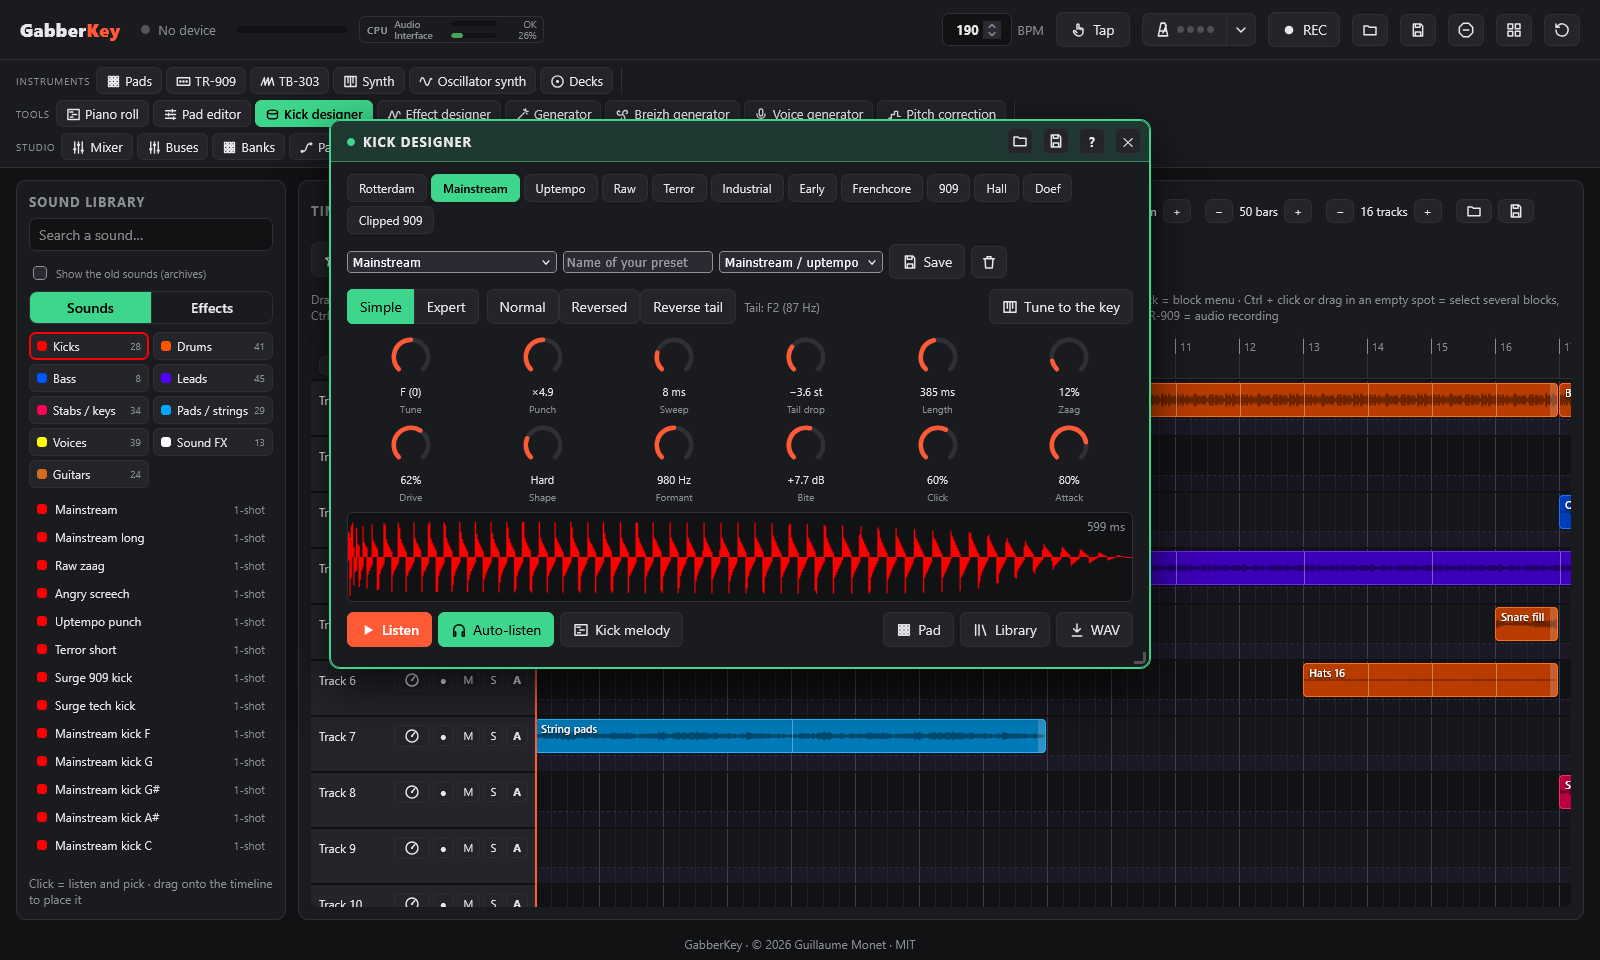
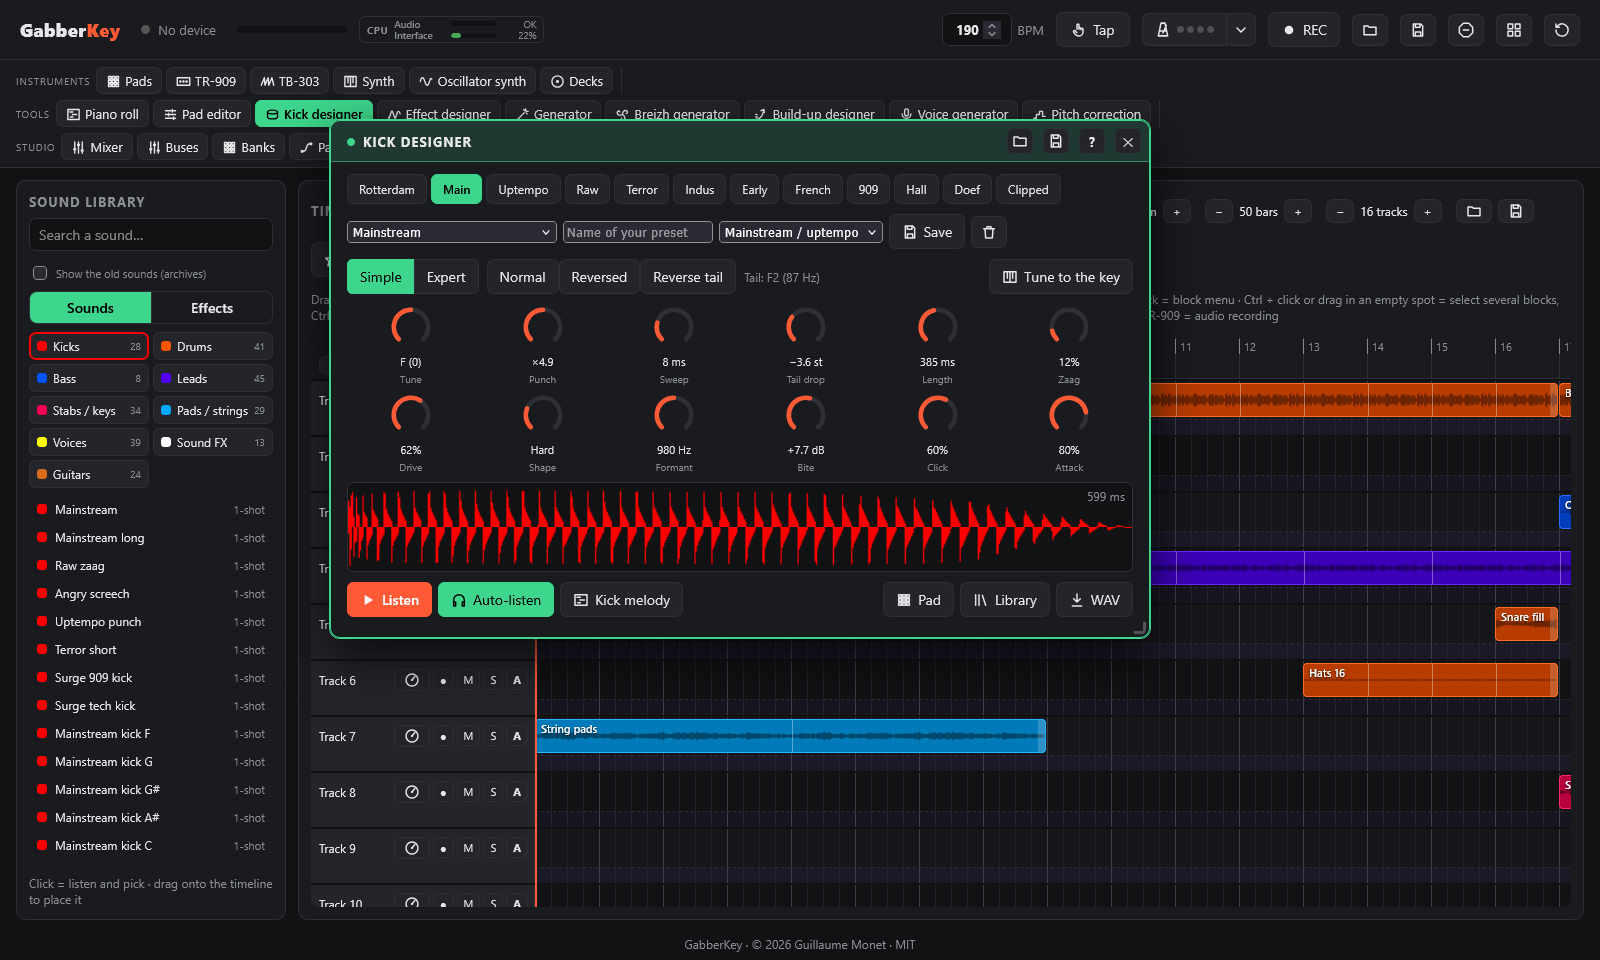
Brand name removed: synth preset Thunderdome pad -> Arena pad (Nappe d'arène), Oldschool bank kick Thunderdome -> Arena kick (Kick d'arène), renamed in saved pads too; preset ids unchanged. Kick designer preset buttons get short names (Main, Indus, French, Salle / Hall, Écrêté / Clipped) so the 12 f

diff --git a/index.html b/index.html
@@ -5,7 +5,7 @@
   <meta name="viewport" content="width=device-width, initial-scale=1">
   <meta name="author" content="Guillaume Monet">
   <title>GabberKey</title>
-  <link rel="stylesheet" href="css/style.css?v=119">
+  <link rel="stylesheet" href="css/style.css?v=120">
 </head>
 <body>
   <div id="start" class="overlay">
@@ -437,117 +437,117 @@
   <script type="importmap">
   {
     "imports": {
-      "./js/app/acid-ui.js": "./js/app/acid-ui.js?v=119",
-      "./js/app/actions.js": "./js/app/actions.js?v=119",
-      "./js/app/controller.js": "./js/app/controller.js?v=119",
-      "./js/app/core.js": "./js/app/core.js?v=119",
-      "./js/app/audio-input.js": "./js/app/audio-input.js?v=119",
-      "./js/app/automation-ui.js": "./js/app/automation-ui.js?v=119",
-      "./js/app/banks-ui.js": "./js/app/banks-ui.js?v=119",
-      "./js/app/bars.js": "./js/app/bars.js?v=119",
-      "./js/app/breizh-ui.js": "./js/app/breizh-ui.js?v=119",
-      "./js/app/buildup-ui.js": "./js/app/buildup-ui.js?v=119",
-      "./js/app/voice-ui.js": "./js/app/voice-ui.js?v=119",
-      "./js/app/tune-ui.js": "./js/app/tune-ui.js?v=119",
-      "./js/app/buses-ui.js": "./js/app/buses-ui.js?v=119",
-      "./js/app/clip-menu.js": "./js/app/clip-menu.js?v=119",
-      "./js/app/curve-ui.js": "./js/app/curve-ui.js?v=119",
-      "./js/app/decks-ui.js": "./js/app/decks-ui.js?v=119",
-      "./js/app/devices.js": "./js/app/devices.js?v=119",
-      "./js/app/demo.js": "./js/app/demo.js?v=119",
-      "./js/app/export.js": "./js/app/export.js?v=119",
-      "./js/app/files.js": "./js/app/files.js?v=119",
-      "./js/app/freeze.js": "./js/app/freeze.js?v=119",
-      "./js/app/gen.js": "./js/app/gen.js?v=119",
-      "./js/app/inserts-ui.js": "./js/app/inserts-ui.js?v=119",
-      "./js/app/kick-ui.js": "./js/app/kick-ui.js?v=119",
-      "./js/app/knobs.js": "./js/app/knobs.js?v=119",
-      "./js/app/launcher.js": "./js/app/launcher.js?v=119",
-      "./js/app/library-ui.js": "./js/app/library-ui.js?v=119",
-      "./js/app/metro-ui.js": "./js/app/metro-ui.js?v=119",
-      "./js/app/markers.js": "./js/app/markers.js?v=119",
-      "./js/app/master-ui.js": "./js/app/master-ui.js?v=119",
-      "./js/app/midi-files.js": "./js/app/midi-files.js?v=119",
-      "./js/app/midi-ui.js": "./js/app/midi-ui.js?v=119",
-      "./js/app/misc.js": "./js/app/misc.js?v=119",
-      "./js/app/mixer-ui.js": "./js/app/mixer-ui.js?v=119",
-      "./js/app/osc-ui.js": "./js/app/osc-ui.js?v=119",
-      "./js/app/pads.js": "./js/app/pads.js?v=119",
-      "./js/app/patch-ui.js": "./js/app/patch-ui.js?v=119",
-      "./js/app/perf-fx.js": "./js/app/perf-fx.js?v=119",
-      "./js/app/play.js": "./js/app/play.js?v=119",
-      "./js/app/piano.js": "./js/app/piano.js?v=119",
-      "./js/app/plugins.js": "./js/app/plugins.js?v=119",
-      "./js/app/presets-bar.js": "./js/app/presets-bar.js?v=119",
-      "./js/app/roll-ui.js": "./js/app/roll-ui.js?v=119",
-      "./js/app/save.js": "./js/app/save.js?v=119",
-      "./js/app/scenes.js": "./js/app/scenes.js?v=119",
-      "./js/app/send-to.js": "./js/app/send-to.js?v=119",
-      "./js/app/sounds.js": "./js/app/sounds.js?v=119",
-      "./js/app/sidechain-ui.js": "./js/app/sidechain-ui.js?v=119",
-      "./js/app/synth-ui.js": "./js/app/synth-ui.js?v=119",
-      "./js/app/tempo.js": "./js/app/tempo.js?v=119",
-      "./js/app/tl-listen.js": "./js/app/tl-listen.js?v=119",
-      "./js/app/tl-record.js": "./js/app/tl-record.js?v=119",
-      "./js/app/tl-select.js": "./js/app/tl-select.js?v=119",
-      "./js/app/tl.js": "./js/app/tl.js?v=119",
-      "./js/app/tr909-ui.js": "./js/app/tr909-ui.js?v=119",
-      "./js/app/trackfx-ui.js": "./js/app/trackfx-ui.js?v=119",
-      "./js/app/undo.js": "./js/app/undo.js?v=119",
-      "./js/app/warp.js": "./js/app/warp.js?v=119",
-      "./js/app/viz-ui.js": "./js/app/viz-ui.js?v=119",
-      "./js/acid.js": "./js/acid.js?v=119",
-      "./js/apc.js": "./js/apc.js?v=119",
-      "./js/audio.js": "./js/audio.js?v=119",
-      "./js/decks.js": "./js/decks.js?v=119",
-      "./js/dynamics.js": "./js/dynamics.js?v=119",
-      "./js/chords.js": "./js/chords.js?v=119",
-      "./js/help.js": "./js/help.js?v=119",
-      "./js/history.js": "./js/history.js?v=119",
-      "./js/i18n.js": "./js/i18n.js?v=119",
-      "./js/kickdesign.js": "./js/kickdesign.js?v=119",
-      "./js/kicksynth.js": "./js/kicksynth.js?v=119",
-      "./js/kit.js": "./js/kit.js?v=119",
-      "./js/kits.js": "./js/kits.js?v=119",
-      "./js/metronome.js": "./js/metronome.js?v=119",
-      "./js/cpumeter.js": "./js/cpumeter.js?v=119",
-      "./js/curves.js": "./js/curves.js?v=119",
-      "./js/library.js": "./js/library.js?v=119",
-      "./js/lufs.js": "./js/lufs.js?v=119",
-      "./js/breizh.js": "./js/breizh.js?v=119",
-      "./js/buildup.js": "./js/buildup.js?v=119",
-      "./js/voice.js": "./js/voice.js?v=119",
-      "./js/psola.js": "./js/psola.js?v=119",
-      "./js/autotune.js": "./js/autotune.js?v=119",
-      "./js/melody.js": "./js/melody.js?v=119",
-      "./js/midi.js": "./js/midi.js?v=119",
-      "./js/midiclock.js": "./js/midiclock.js?v=119",
-      "./js/smf.js": "./js/smf.js?v=119",
-      "./js/main.js": "./js/main.js?v=119",
-      "./js/mixer.js": "./js/mixer.js?v=119",
-      "./js/notes.js": "./js/notes.js?v=119",
-      "./js/osc.js": "./js/osc.js?v=119",
-      "./js/params.js": "./js/params.js?v=119",
-      "./js/patch.js": "./js/patch.js?v=119",
-      "./js/performer.js": "./js/performer.js?v=119",
-      "./js/pianoroll.js": "./js/pianoroll.js?v=119",
-      "./js/presets.js": "./js/presets.js?v=119",
-      "./js/project.js": "./js/project.js?v=119",
-      "./js/sidechain.js": "./js/sidechain.js?v=119",
-      "./js/recorder.js": "./js/recorder.js?v=119",
-      "./js/timeline.js": "./js/timeline.js?v=119",
-      "./js/storage.js": "./js/storage.js?v=119",
-      "./js/stretch.js": "./js/stretch.js?v=119",
-      "./js/suggest.js": "./js/suggest.js?v=119",
-      "./js/tr909.js": "./js/tr909.js?v=119",
-      "./js/trackfx.js": "./js/trackfx.js?v=119",
-      "./js/visualizer.js": "./js/visualizer.js?v=119",
-      "./js/viz3d.js": "./js/viz3d.js?v=119",
-      "./js/windows.js": "./js/windows.js?v=119",
-      "./js/zip.js": "./js/zip.js?v=119"
+      "./js/app/acid-ui.js": "./js/app/acid-ui.js?v=120",
+      "./js/app/actions.js": "./js/app/actions.js?v=120",
+      "./js/app/controller.js": "./js/app/controller.js?v=120",
+      "./js/app/core.js": "./js/app/core.js?v=120",
+      "./js/app/audio-input.js": "./js/app/audio-input.js?v=120",
+      "./js/app/automation-ui.js": "./js/app/automation-ui.js?v=120",
+      "./js/app/banks-ui.js": "./js/app/banks-ui.js?v=120",
+      "./js/app/bars.js": "./js/app/bars.js?v=120",
+      "./js/app/breizh-ui.js": "./js/app/breizh-ui.js?v=120",
+      "./js/app/buildup-ui.js": "./js/app/buildup-ui.js?v=120",
+      "./js/app/voice-ui.js": "./js/app/voice-ui.js?v=120",
+      "./js/app/tune-ui.js": "./js/app/tune-ui.js?v=120",
+      "./js/app/buses-ui.js": "./js/app/buses-ui.js?v=120",
+      "./js/app/clip-menu.js": "./js/app/clip-menu.js?v=120",
+      "./js/app/curve-ui.js": "./js/app/curve-ui.js?v=120",
+      "./js/app/decks-ui.js": "./js/app/decks-ui.js?v=120",
+      "./js/app/devices.js": "./js/app/devices.js?v=120",
+      "./js/app/demo.js": "./js/app/demo.js?v=120",
+      "./js/app/export.js": "./js/app/export.js?v=120",
+      "./js/app/files.js": "./js/app/files.js?v=120",
+      "./js/app/freeze.js": "./js/app/freeze.js?v=120",
+      "./js/app/gen.js": "./js/app/gen.js?v=120",
+      "./js/app/inserts-ui.js": "./js/app/inserts-ui.js?v=120",
+      "./js/app/kick-ui.js": "./js/app/kick-ui.js?v=120",
+      "./js/app/knobs.js": "./js/app/knobs.js?v=120",
+      "./js/app/launcher.js": "./js/app/launcher.js?v=120",
+      "./js/app/library-ui.js": "./js/app/library-ui.js?v=120",
+      "./js/app/metro-ui.js": "./js/app/metro-ui.js?v=120",
+      "./js/app/markers.js": "./js/app/markers.js?v=120",
+      "./js/app/master-ui.js": "./js/app/master-ui.js?v=120",
+      "./js/app/midi-files.js": "./js/app/midi-files.js?v=120",
+      "./js/app/midi-ui.js": "./js/app/midi-ui.js?v=120",
+      "./js/app/misc.js": "./js/app/misc.js?v=120",
+      "./js/app/mixer-ui.js": "./js/app/mixer-ui.js?v=120",
+      "./js/app/osc-ui.js": "./js/app/osc-ui.js?v=120",
+      "./js/app/pads.js": "./js/app/pads.js?v=120",
+      "./js/app/patch-ui.js": "./js/app/patch-ui.js?v=120",
+      "./js/app/perf-fx.js": "./js/app/perf-fx.js?v=120",
+      "./js/app/play.js": "./js/app/play.js?v=120",
+      "./js/app/piano.js": "./js/app/piano.js?v=120",
+      "./js/app/plugins.js": "./js/app/plugins.js?v=120",
+      "./js/app/presets-bar.js": "./js/app/presets-bar.js?v=120",
+      "./js/app/roll-ui.js": "./js/app/roll-ui.js?v=120",
+      "./js/app/save.js": "./js/app/save.js?v=120",
+      "./js/app/scenes.js": "./js/app/scenes.js?v=120",
+      "./js/app/send-to.js": "./js/app/send-to.js?v=120",
+      "./js/app/sounds.js": "./js/app/sounds.js?v=120",
+      "./js/app/sidechain-ui.js": "./js/app/sidechain-ui.js?v=120",
+      "./js/app/synth-ui.js": "./js/app/synth-ui.js?v=120",
+      "./js/app/tempo.js": "./js/app/tempo.js?v=120",
+      "./js/app/tl-listen.js": "./js/app/tl-listen.js?v=120",
+      "./js/app/tl-record.js": "./js/app/tl-record.js?v=120",
+      "./js/app/tl-select.js": "./js/app/tl-select.js?v=120",
+      "./js/app/tl.js": "./js/app/tl.js?v=120",
+      "./js/app/tr909-ui.js": "./js/app/tr909-ui.js?v=120",
+      "./js/app/trackfx-ui.js": "./js/app/trackfx-ui.js?v=120",
+      "./js/app/undo.js": "./js/app/undo.js?v=120",
+      "./js/app/warp.js": "./js/app/warp.js?v=120",
+      "./js/app/viz-ui.js": "./js/app/viz-ui.js?v=120",
+      "./js/acid.js": "./js/acid.js?v=120",
+      "./js/apc.js": "./js/apc.js?v=120",
+      "./js/audio.js": "./js/audio.js?v=120",
+      "./js/decks.js": "./js/decks.js?v=120",
+      "./js/dynamics.js": "./js/dynamics.js?v=120",
+      "./js/chords.js": "./js/chords.js?v=120",
+      "./js/help.js": "./js/help.js?v=120",
+      "./js/history.js": "./js/history.js?v=120",
+      "./js/i18n.js": "./js/i18n.js?v=120",
+      "./js/kickdesign.js": "./js/kickdesign.js?v=120",
+      "./js/kicksynth.js": "./js/kicksynth.js?v=120",
+      "./js/kit.js": "./js/kit.js?v=120",
+      "./js/kits.js": "./js/kits.js?v=120",
+      "./js/metronome.js": "./js/metronome.js?v=120",
+      "./js/cpumeter.js": "./js/cpumeter.js?v=120",
+      "./js/curves.js": "./js/curves.js?v=120",
+      "./js/library.js": "./js/library.js?v=120",
+      "./js/lufs.js": "./js/lufs.js?v=120",
+      "./js/breizh.js": "./js/breizh.js?v=120",
+      "./js/buildup.js": "./js/buildup.js?v=120",
+      "./js/voice.js": "./js/voice.js?v=120",
+      "./js/psola.js": "./js/psola.js?v=120",
+      "./js/autotune.js": "./js/autotune.js?v=120",
+      "./js/melody.js": "./js/melody.js?v=120",
+      "./js/midi.js": "./js/midi.js?v=120",
+      "./js/midiclock.js": "./js/midiclock.js?v=120",
+      "./js/smf.js": "./js/smf.js?v=120",
+      "./js/main.js": "./js/main.js?v=120",
+      "./js/mixer.js": "./js/mixer.js?v=120",
+      "./js/notes.js": "./js/notes.js?v=120",
+      "./js/osc.js": "./js/osc.js?v=120",
+      "./js/params.js": "./js/params.js?v=120",
+      "./js/patch.js": "./js/patch.js?v=120",
+      "./js/performer.js": "./js/performer.js?v=120",
+      "./js/pianoroll.js": "./js/pianoroll.js?v=120",
+      "./js/presets.js": "./js/presets.js?v=120",
+      "./js/project.js": "./js/project.js?v=120",
+      "./js/sidechain.js": "./js/sidechain.js?v=120",
+      "./js/recorder.js": "./js/recorder.js?v=120",
+      "./js/timeline.js": "./js/timeline.js?v=120",
+      "./js/storage.js": "./js/storage.js?v=120",
+      "./js/stretch.js": "./js/stretch.js?v=120",
+      "./js/suggest.js": "./js/suggest.js?v=120",
+      "./js/tr909.js": "./js/tr909.js?v=120",
+      "./js/trackfx.js": "./js/trackfx.js?v=120",
+      "./js/visualizer.js": "./js/visualizer.js?v=120",
+      "./js/viz3d.js": "./js/viz3d.js?v=120",
+      "./js/windows.js": "./js/windows.js?v=120",
+      "./js/zip.js": "./js/zip.js?v=120"
     }
   }
   </script>
-  <script type="module" src="js/main.js?v=119"></script>
+  <script type="module" src="js/main.js?v=120"></script>
 </body>
 </html>

diff --git a/js/i18n.js b/js/i18n.js
@@ -172,7 +172,7 @@ export const STRINGS = {
     'family.strings': 'Strings', 'family.pads': 'Pads', 'family.choirs': 'Choirs', 'family.supersaw': 'Supersaw', 'family.hoovers': 'Hoovers',
     'family.leads': 'Leads', 'family.basses': 'Basses', 'family.stabs': 'Stabs', 'family.keys': 'Keys', 'family.breizh': 'Breizh', 'family.fx': 'FX',
     'preset.epic_strings': 'Epic strings', 'preset.dark_strings': 'Dark strings', 'preset.staccato_strings': 'Staccato strings', 'preset.solina': 'Vintage strings', 'preset.high_strings': 'High strings',
-    'preset.thunder_pad': 'Thunderdome pad', 'preset.dark_pad': 'Dark pad', 'preset.warm_pad': 'Warm pad', 'preset.glass_pad': 'Glass pad', 'preset.sweep_pad': 'Sweep pad',
+    'preset.thunder_pad': 'Arena pad', 'preset.dark_pad': 'Dark pad', 'preset.warm_pad': 'Warm pad', 'preset.glass_pad': 'Glass pad', 'preset.sweep_pad': 'Sweep pad',
     'preset.rave_choir': 'Rave choir', 'preset.ooh_choir': 'Ooh choir', 'preset.dark_choir': 'Dark choir',
     'preset.supersaw_uplift': 'Uplifting supersaw', 'preset.hardstyle_lead': 'Hardstyle lead', 'preset.supersaw_pad': 'Supersaw pad', 'preset.supersaw_stab': 'Supersaw stab',
     'preset.mentasm': 'Mentasm', 'preset.gabber_lead': 'Gabber lead', 'preset.reese': 'Reese', 'preset.sub_bass': 'Sub bass',
@@ -926,6 +926,7 @@ export const STRINGS = {
     'kick.preset.rotterdam': 'Rotterdam', 'kick.preset.mainstream': 'Mainstream', 'kick.preset.uptempo': 'Uptempo', 'kick.preset.raw': 'Raw',
     'kick.preset.terror': 'Terror', 'kick.preset.industrial': 'Industrial', 'kick.preset.early': 'Early', 'kick.preset.frenchcore': 'Frenchcore', 'kick.preset.tr909': '909',
     'kick.preset.hall': 'Hall', 'kick.preset.doef': 'Doef', 'kick.preset.clipped': 'Clipped 909',
+    'kick.short.mainstream': 'Main', 'kick.short.industrial': 'Indus', 'kick.short.frenchcore': 'French', 'kick.short.hall': 'Hall', 'kick.short.clipped': 'Clipped',
     'kick.p.tune': 'Tune', 'kick.p.pitch': 'Punch', 'kick.p.sweep': 'Sweep', 'kick.p.bend': 'Tail drop', 'kick.p.length': 'Length', 'kick.p.zaag': 'Zaag',
     'kick.p.drive': 'Drive', 'kick.p.shape': 'Shape', 'kick.p.tone': 'Formant', 'kick.p.bite': 'Bite', 'kick.p.click': 'Click', 'kick.p.top': 'Attack',
     'kick.h.tune': 'Note of the tail (F = the key of the banks)',
@@ -1317,7 +1318,7 @@ export const STRINGS = {
     'family.strings': 'Cordes', 'family.pads': 'Nappes', 'family.choirs': 'Chœurs', 'family.supersaw': 'Supersaw', 'family.hoovers': 'Hoovers',
     'family.leads': 'Leads', 'family.basses': 'Basses', 'family.stabs': 'Stabs', 'family.keys': 'Claviers', 'family.breizh': 'Breizh', 'family.fx': 'Effets',
     'preset.epic_strings': 'Cordes épiques', 'preset.dark_strings': 'Cordes sombres', 'preset.staccato_strings': 'Cordes staccato', 'preset.solina': 'Cordes vintage', 'preset.high_strings': 'Cordes aiguës',
-    'preset.thunder_pad': 'Nappe Thunderdome', 'preset.dark_pad': 'Nappe sombre', 'preset.warm_pad': 'Nappe chaude', 'preset.glass_pad': 'Nappe de verre', 'preset.sweep_pad': 'Nappe balayée',
+    'preset.thunder_pad': 'Nappe d\'arène', 'preset.dark_pad': 'Nappe sombre', 'preset.warm_pad': 'Nappe chaude', 'preset.glass_pad': 'Nappe de verre', 'preset.sweep_pad': 'Nappe balayée',
     'preset.rave_choir': 'Chœur rave', 'preset.ooh_choir': 'Chœur « ooh »', 'preset.dark_choir': 'Chœur sombre',
     'preset.supersaw_uplift': 'Supersaw uplifting', 'preset.hardstyle_lead': 'Lead hardstyle', 'preset.supersaw_pad': 'Nappe supersaw', 'preset.supersaw_stab': 'Stab supersaw',
     'preset.mentasm': 'Mentasm', 'preset.gabber_lead': 'Lead gabber', 'preset.reese': 'Reese', 'preset.sub_bass': 'Sub basse',
@@ -2071,6 +2072,7 @@ export const STRINGS = {
     'kick.preset.rotterdam': 'Rotterdam', 'kick.preset.mainstream': 'Mainstream', 'kick.preset.uptempo': 'Uptempo', 'kick.preset.raw': 'Raw',
     'kick.preset.terror': 'Terror', 'kick.preset.industrial': 'Industrial', 'kick.preset.early': 'Early', 'kick.preset.frenchcore': 'Frenchcore', 'kick.preset.tr909': '909',
     'kick.preset.hall': 'Grande salle', 'kick.preset.doef': 'Doef', 'kick.preset.clipped': '909 écrêtée',
+    'kick.short.mainstream': 'Main', 'kick.short.industrial': 'Indus', 'kick.short.frenchcore': 'French', 'kick.short.hall': 'Salle', 'kick.short.clipped': 'Écrêté',
     'kick.p.tune': 'Note', 'kick.p.pitch': 'Punch', 'kick.p.sweep': 'Chute', 'kick.p.bend': 'Plongée', 'kick.p.length': 'Longueur', 'kick.p.zaag': 'Zaag',
     'kick.p.drive': 'Drive', 'kick.p.shape': 'Forme', 'kick.p.tone': 'Formant', 'kick.p.bite': 'Mordant', 'kick.p.click': 'Clic', 'kick.p.top': 'Attaque',
     'kick.h.tune': 'Note de la queue (fa = la tonalité des banques)',
@@ -2332,7 +2334,7 @@ const SOUNDS_FR = {
   'China crash': 'Crash chinoise', 'Raw screech': 'Screech raw', 'Raw screech low': 'Screech raw grave', 'Euphoric lead': 'Lead euphorique',
   'Euphoric chord': 'Accord euphorique', 'Hardstyle pluck': 'Pluck hardstyle', 'Raw stab': 'Stab raw', 'Hoover raw': 'Hoover raw', 'Shout raw': 'Cri « raw »',
   'Air horn': 'Corne de brume', 'Hardstyle beat': 'Beat hardstyle', 'Reverse bass loop': 'Boucle reverse bass', 'Reverse bass prog': 'Reverse bass en accords',
-  'Rawstyle loop': 'Boucle rawstyle', 'Kick build-up': 'Montée de kicks', 'Euphoric melody': 'Mélodie euphorique', "Kick '91": "Kick '91",
+  'Rawstyle loop': 'Boucle rawstyle', 'Kick build-up': 'Montée de kicks', 'Euphoric melody': 'Mélodie euphorique', "Kick '91": "Kick '91", 'Arena kick': 'Kick d\'arène',
   'Hoover anthem': 'Hymne hoover',
   'Screech theme': 'Thème screech',
   'Screech gallop': 'Screech au galop',

diff --git a/js/app/kick-ui.js b/js/app/kick-ui.js
@@ -68,7 +68,10 @@ export function buildKick() {
   for (const id of Object.keys(KICK_PRESETS)) {
     const b = document.createElement('button');
     b.dataset.preset = id;
-    b.textContent = t(`kick.preset.${id}`);
+    // Nom court sur le bouton (les 12 presets tiennent sur une ligne), le nom complet en infobulle.
+    const full = t(`kick.preset.${id}`), short = t(`kick.short.${id}`);
+    b.textContent = short === `kick.short.${id}` ? full : short;
+    b.title = full;
     b.addEventListener('click', () => {
       state.kick.params = { ...kickDefaults(), ...KICK_PRESETS[id] };
       state.kick.preset = id;

diff --git a/js/app/save.js b/js/app/save.js
@@ -96,6 +96,7 @@ export async function restore() {
         const s = saved.banks?.[b]?.[i];
         if (!s) continue;
         const pad = { bpm: 0, ...s, p: { ...defaultPositions('pad'), ...s.p }, buffer: null };
+        if (pad.name === 'Thunderdome') pad.name = soundName('Arena kick');   // ancien nom (une marque) du kick de la banque Oldschool
         state.banks[b][i] = pad;
         if (s.sampleId?.startsWith('builtin:')) pad.buffer = kit[+s.sampleId.slice(8)]?.buffer ?? null;
       }

diff --git a/tools/gabber.py b/tools/gabber.py
@@ -865,7 +865,7 @@ def build_oldschool(bpm=190):
         ('909 boom', RED, ONESHOT, k909, None),
         ("Kick '91", RED, ONESHOT, gabber_kick(F + 4, drive=10, decay=0.09, tail=0.3, dur=0.55, lp=3000, mid_db=2), None),
         ('808 long', ORANGE, ONESHOT, kick808(), None),
-        ('Thunderdome', RED, ONESHOT, gabber_kick(F + 2, drive=20, tail=1.1, dur=1.3, lp=3800), None),
+        ('Arena kick', RED, ONESHOT, gabber_kick(F + 2, drive=20, tail=1.1, dur=1.3, lp=3800), None),
         ("Kick '93", RED, ONESHOT, gabber_kick(F + 5, drive=8, decay=0.12, tail=0.2, dur=0.4), None),
         ('Break kick', ORANGE, ONESHOT, kb, None),
         ('Soft doef', ORANGE, ONESHOT, gabber_kick(F, drive=6, lp=2500, tail=0.9, dur=1.1), None),

diff --git a/docs/manuel/instruments.md b/docs/manuel/instruments.md
@@ -58,7 +58,7 @@ Le clavier joue un synthé en couches pensé pour le hardcore : chaque preset em
 | Famille | Presets |
 |---|---|
 | Cordes | Épiques, Sombres, Staccato, Vintage, Aiguës |
-| Nappes | Thunderdome, Sombre, Chaude, De verre, Balayée |
+| Nappes | Arène, Sombre, Chaude, De verre, Balayée |
 | Chœurs | Rave, « Ooh », Sombre |
 | Supersaw | Uplifting, Lead hardstyle, Nappe, Stab |
 | Hoovers | Hoover, Mentasm, Hoover années 90 |

diff --git a/docs/manual/instruments.md b/docs/manual/instruments.md
@@ -58,7 +58,7 @@ The keyboard plays a layered synth built for hardcore: every preset stacks up to
 | Family | Presets |
 |---|---|
 | Strings | Epic, Dark, Staccato, Vintage, High |
-| Pads | Thunderdome, Dark, Warm, Glass, Sweep |
+| Pads | Arena, Dark, Warm, Glass, Sweep |
 | Choirs | Rave, Ooh, Dark |
 | Supersaw | Uplifting, Hardstyle lead, Pad, Stab |
 | Hoovers | Hoover, Mentasm, Early hoover |
